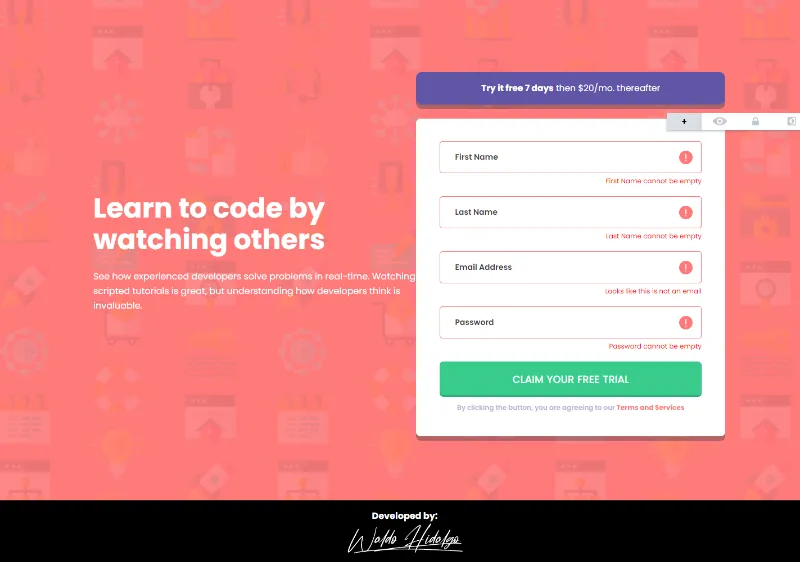
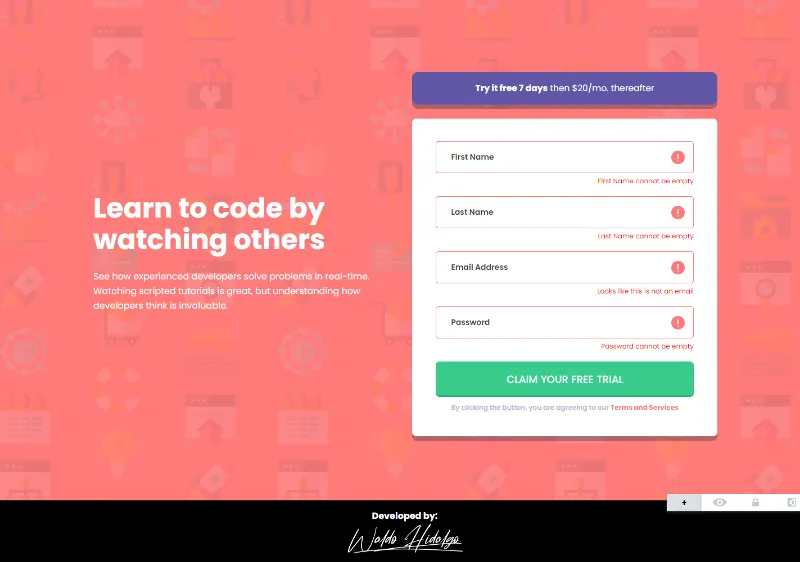
update padding right and screenshots

diff --git a/src/App.vue b/src/App.vue
@@ -81,7 +81,7 @@ export default {
     ></div>
 
     <div
-      class="flex flex-col p-[100px_29px] lg:flex-row md:p-[62px_15px] xl:p-[50px_150px_114px_166px]"
+      class="flex flex-col p-[100px_29px] lg:flex-row md:p-[62px_15px] xl:p-[50px_164px_114px_166px]"
     >
       <div
         class="w-full lg:w-[51.1%] lg:flex lg:flex-col lg:justify-center lg:items-start lg:gap-[15px]"
